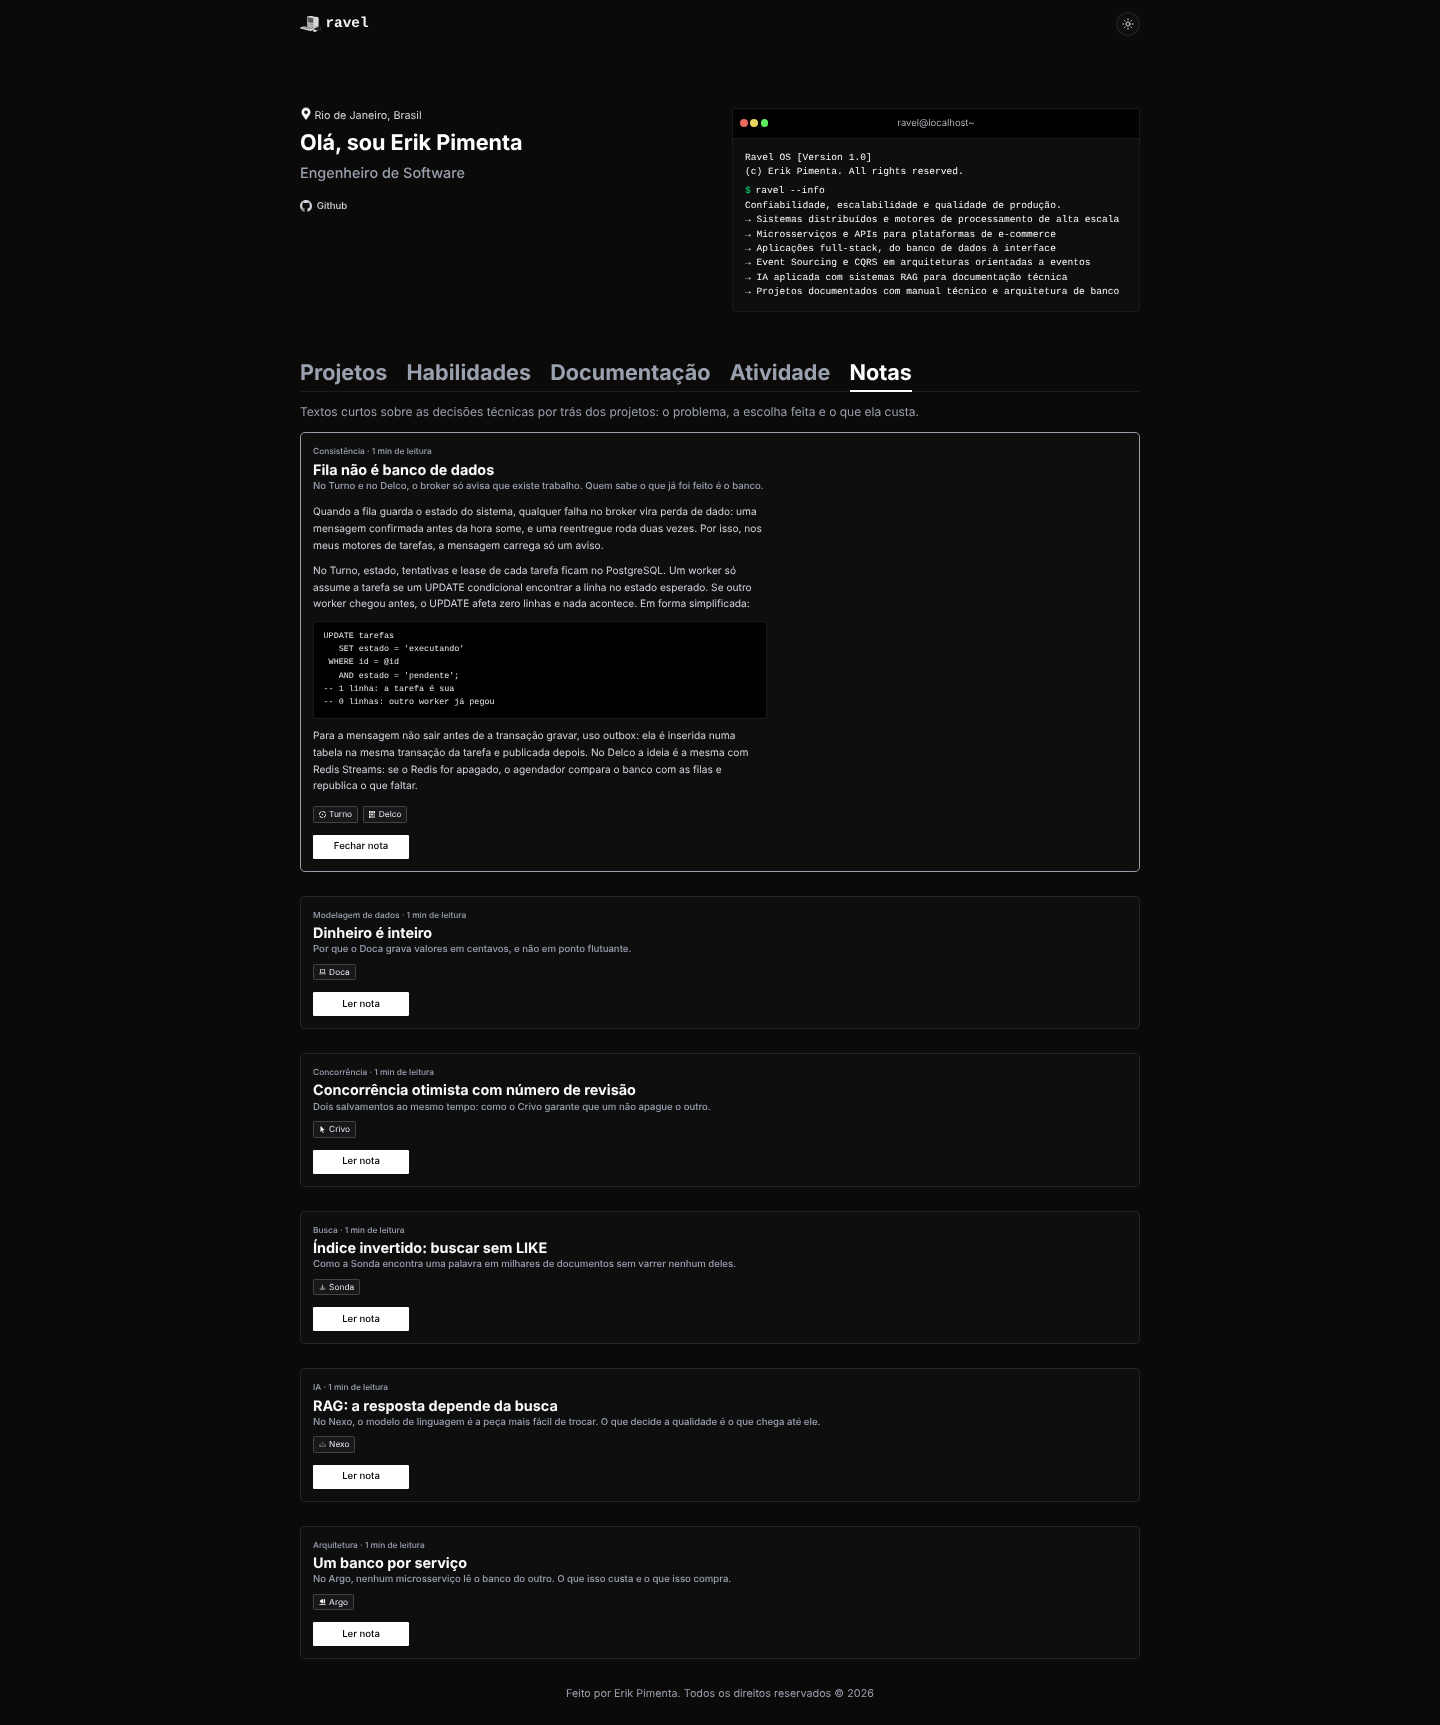
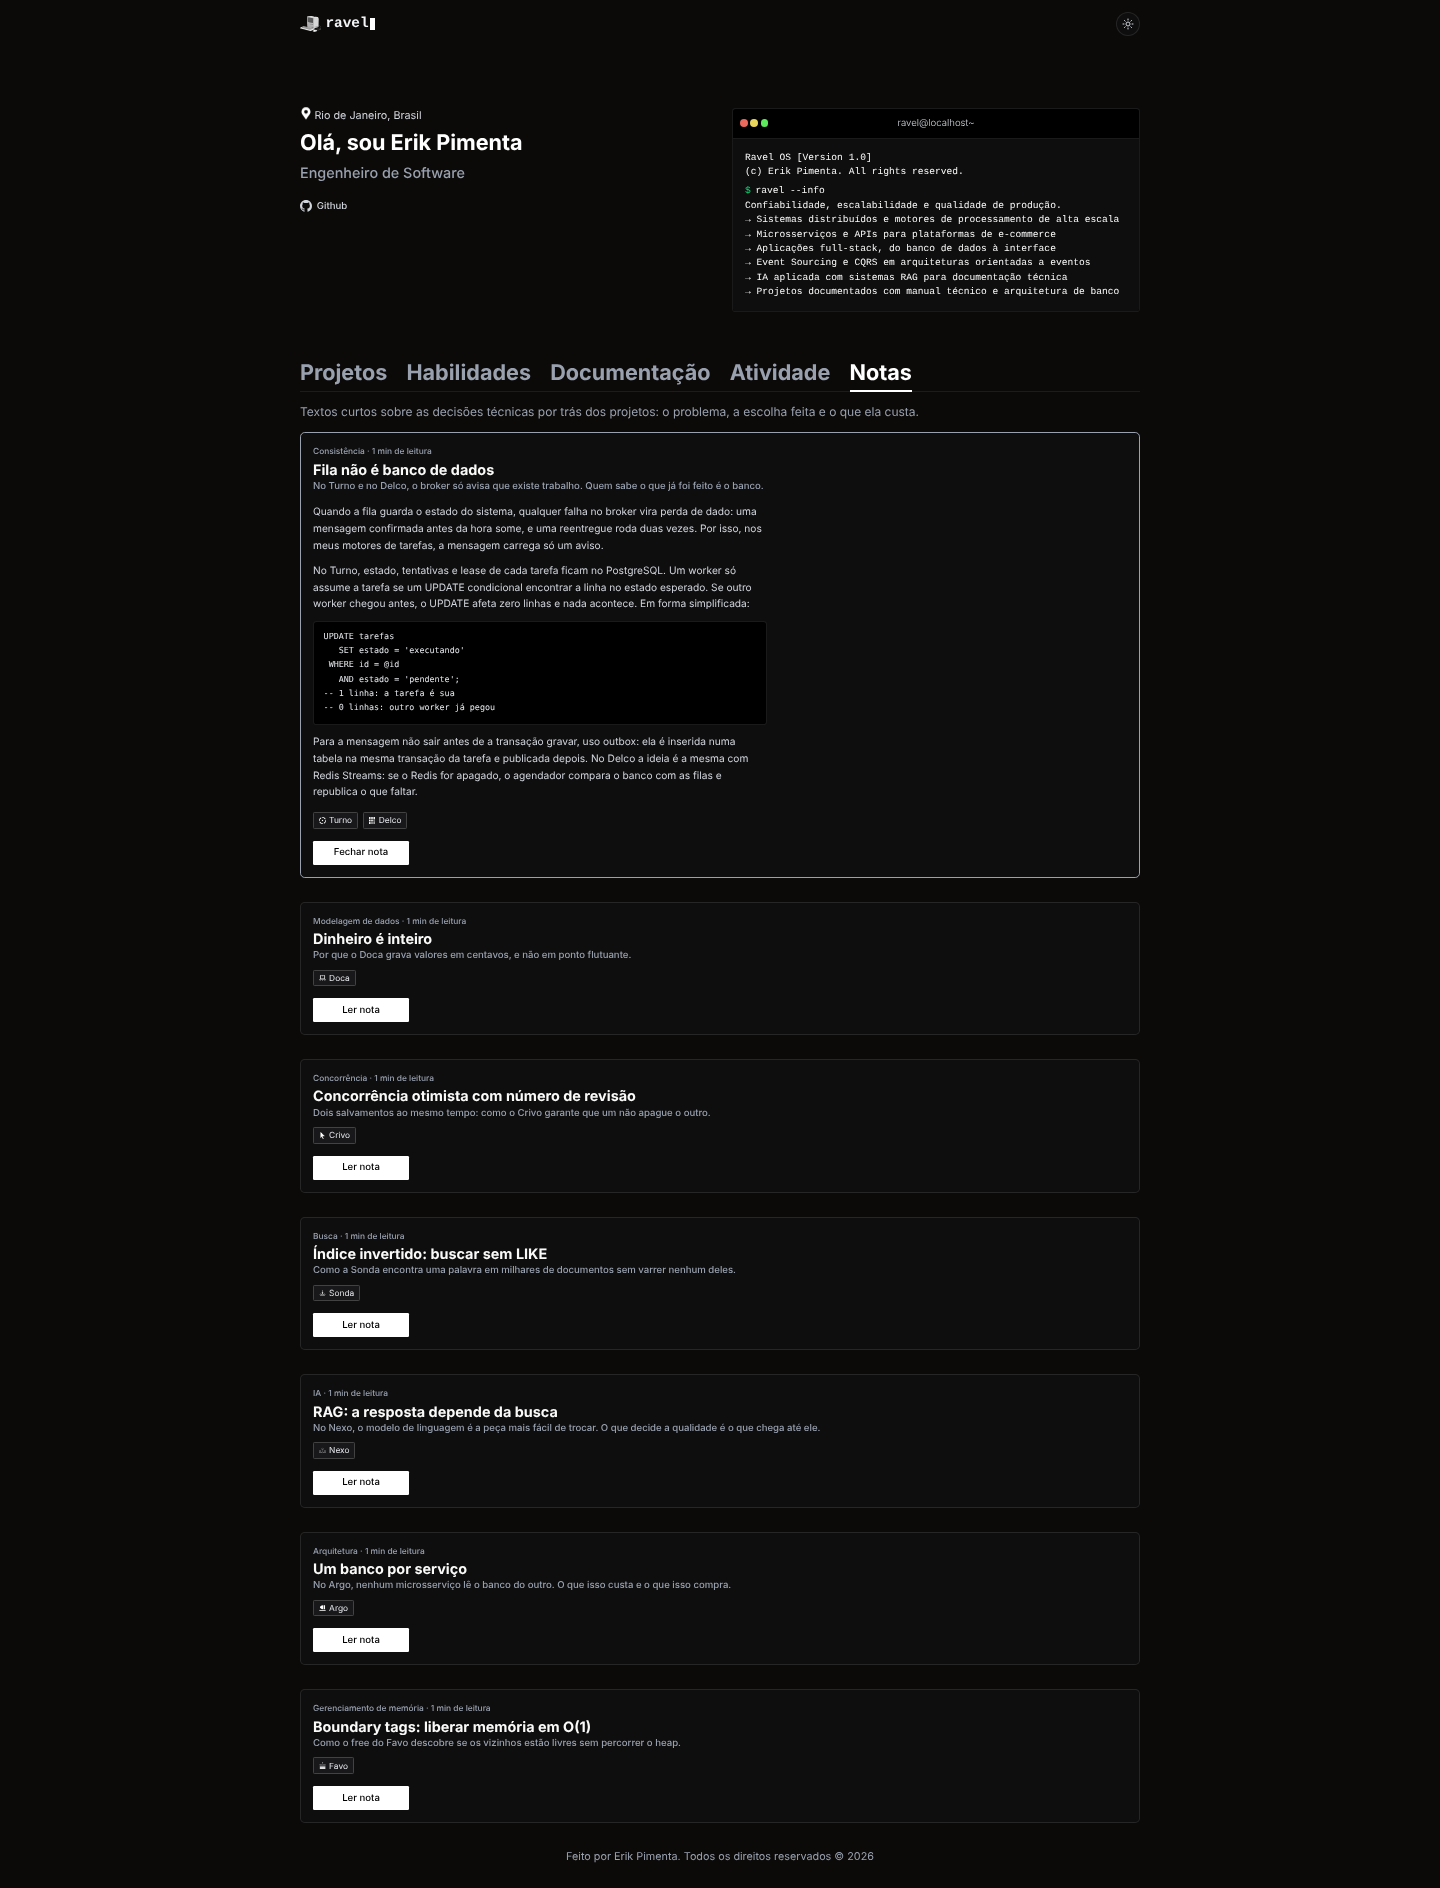
Inclui o Favo nos projetos, na documentação e nas notas

Changed region(s): [[0.2188, 0.0614, 0.75, 0.9832], [0.1875, 0.0614, 0.375, 0.1229], [0.2188, 0.0, 0.25, 0.0307]]

diff --git a/js/notas.js b/js/notas.js
@@ -72,5 +72,18 @@ const NOTAS = [
 			"O custo é que não existe JOIN entre serviços: quando um precisa de dados de outro, pede pela API ou recebe por evento. Em troca, cada serviço evolui o próprio esquema sozinho, sem quebrar os outros."
 		],
 		projetos: ["Argo"]
+	},
+	{
+		titulo: "Boundary tags: liberar memória em O(1)",
+		tema: "Gerenciamento de memória",
+		resumo: "Como o free do Favo descobre se os vizinhos estão livres sem percorrer o heap.",
+		corpo: [
+			"Depois de muitos malloc e free, o heap vira um mosaico de buracos: a soma do espaço livre é grande, mas nenhum pedaço serve para um pedido maior. É a fragmentação externa, e o remédio é fundir blocos livres vizinhos assim que um deles é liberado.",
+			"O difícil é achar os vizinhos. O da direita é fácil: basta somar o tamanho do bloco ao endereço dele. O da esquerda não dá para calcular, e percorrer o heap desde o início custaria O(n) a cada free. No Favo, todo bloco repete o tamanho no fim, num rodapé de 8 bytes (a boundary tag). Como os blocos são múltiplos de 16, os 4 bits mais baixos do tamanho ficam livres e guardam a marca de usado. Em forma simplificada:",
+			{ codigo: "[cabeçalho 16 B][ payload ......... ][rodapé 8 B]\n\ndireita  = bloco + tamanho(bloco)\nesquerda = bloco - tamanho(rodapé logo antes)\nusado    = tamanho & 1" },
+			"Assim o free lê só o rodapé do bloco anterior e o cabeçalho do seguinte, e resolve os quatro casos (nenhum vizinho livre, só a esquerda, só a direita ou os dois) em tempo constante. Para o primeiro e o último bloco não virarem exceção, cada arena começa com um rodapé falso e termina com um bloco de tamanho zero, os dois marcados como usados.",
+			"O custo são 24 bytes por bloco e um bloco mínimo de 64 bytes, para caber os ponteiros da lista e da árvore rubro-negra quando ele está livre. Em troca, o rodapé também vira verificação: se uma escrita passar do fim do payload, ele deixa de bater com o cabeçalho e o Favo acusa a corrupção quando o bloco é liberado."
+		],
+		projetos: ["Favo"]
 	}
 ];

diff --git a/js/projetos.js b/js/projetos.js
@@ -75,5 +75,12 @@ const PROJETOS = [
 		descricao: "Bento é um painel administrativo SaaS em bento grid feito com Tailwind CSS v4: modo claro/escuro salvo no localStorage, KPIs com tendência, gráficos ApexCharts, tabelas com ordenação, busca e paginação, e gavetas laterais. API em TypeScript (Fastify) com PostgreSQL, JWT, permissões por papel, alertas em tempo real (SSE) e relatórios em CSV e PDF.",
 		link: "https://github.com/ravelroot/Data-Driven-Admin-Panel",
 		tecnologias: ["Typescript", "Tailwind CSS", "Node.js", "Fastify", "PostgreSQL", "ApexCharts", "Docker"]
+	},
+	{
+		titulo: "Favo",
+		icone: "assets/projetos/favo.png",
+		descricao: "Favo é um alocador de memória escrito do zero em C11 que substitui o malloc e o free do sistema: pede memória ao kernel com sbrk e mmap (VirtualAlloc no Windows), alinha blocos a 16 bytes, aloca por First-Fit, Next-Fit ou Best-Fit em árvore rubro-negra e funde vizinhos livres. Funciona via LD_PRELOAD, com API em FastAPI e painel web do heap ao vivo.",
+		link: "https://github.com/ravelroot/Custom-Memory-Allocator",
+		tecnologias: ["C", "CMake", "LD_PRELOAD", "Python", "FastAPI", "SQLite", "Typescript", "Docker"]
 	}
 ];

diff --git a/js/documentacao.js b/js/documentacao.js
@@ -108,5 +108,15 @@ const DOCUMENTACAO = [
 		destaques: ["PostgreSQL 18 ou PGlite", "22 tabelas", "LISTEN/NOTIFY"],
 		manual: "https://github.com/ravelroot/Data-Driven-Admin-Panel/blob/main/Manual-Bento.pdf",
 		banco: "https://github.com/ravelroot/Data-Driven-Admin-Panel/blob/main/Banco-de-Dados-Bento.pdf"
+	},
+	{
+		titulo: "Favo",
+		miniatura: "assets/documentacao/favo.png",
+		miniaturaDescricao: "Diagrama de relacionamentos das sessões e operações do Favo",
+		decisao: "O heap não passa pelo banco",
+		texto: "Tudo o que o alocador gerencia vive na memória do processo. O SQLite, num arquivo só e em modo WAL, guarda apenas o histórico do painel: sessões, cada operação feita no heap, traces e benchmarks. Apagar uma sessão apaga as operações dela em cascata.",
+		destaques: ["SQLite + WAL", "6 tabelas", "Exclusão em cascata"],
+		manual: "https://github.com/ravelroot/Custom-Memory-Allocator/blob/main/Manual-Favo.pdf",
+		banco: "https://github.com/ravelroot/Custom-Memory-Allocator/blob/main/Banco-de-Dados-Favo.pdf"
 	}
 ];

diff --git a/index.html b/index.html
@@ -132,11 +132,11 @@
 		</footer>
 	</div>
 
-	<script src="js/projetos.js?v=15"></script>
+	<script src="js/projetos.js?v=16"></script>
 	<script src="js/habilidades.js?v=4"></script>
-	<script src="js/documentacao.js?v=3"></script>
+	<script src="js/documentacao.js?v=4"></script>
 	<script src="js/atividade.js?v=4"></script>
-	<script src="js/notas.js?v=1"></script>
+	<script src="js/notas.js?v=2"></script>
 	<script src="js/main.js?v=9"></script>
 </body>
 </html>

diff --git a/README.md b/README.md
@@ -20,7 +20,7 @@ HTML5 · CSS3 · JavaScript (ES6+) · API do GitHub · Responsivo · Zero depend
 ---
 
 <p align="center">
-  <img src="assets/preview-portfolio.png?v=15" alt="Prévia do portfólio">
+  <img src="assets/preview-portfolio.png?v=16" alt="Prévia do portfólio">
 </p>
 
 <p align="center"><b>Tema claro, na aba Habilidades</b></p>
@@ -44,7 +44,7 @@ HTML5 · CSS3 · JavaScript (ES6+) · API do GitHub · Responsivo · Zero depend
 <p align="center"><b>Aba Notas</b></p>
 
 <p align="center">
-  <img src="assets/preview-portfolio-notas.png?v=1" alt="Prévia da aba Notas, com uma nota aberta e o bloco de código">
+  <img src="assets/preview-portfolio-notas.png?v=2" alt="Prévia da aba Notas, com uma nota aberta e o bloco de código">
 </p>
 
 ## O que tem na página
@@ -58,7 +58,7 @@ HTML5 · CSS3 · JavaScript (ES6+) · API do GitHub · Responsivo · Zero depend
   - **Habilidades** organizadas por área (Front-end, Back-end, Bancos de Dados, IA & LLMs e Ferramentas), em cartões com etiquetas agrupadas. IA & LLMs se divide em Arquitetura RAG e Modelos e protocolos; Ferramentas, em DevOps e infraestrutura, APIs, Desenvolvimento e Produtividade.
   - **Documentação**: um cartão por projeto com a miniatura do diagrama do banco (tirada do próprio PDF, em traço branco no tema escuro e grafite no claro), a decisão de arquitetura que mais pesou, etiquetas com os números principais e botões que abrem o **Manual técnico** e a **Arquitetura do BD** em PDF no GitHub. A miniatura também abre o PDF. O Talos, que ainda não tem o PDF do banco, mostra um esquema da arquitetura hexagonal.
   - **Atividade**: dados ao vivo do GitHub, buscados só quando a aba é aberta. Mostra as contribuições dos últimos 12 meses, sequência atual e maior sequência de dias com commits, número de repositórios públicos, o **gráfico de contribuições** dos últimos 12 meses (o mesmo calendário do perfil, em tons neutros que acompanham o tema). A janela anda junto com o tempo e atravessa a virada de ano: por isso o primeiro mês e cada janeiro mostram o ano, e a nota abaixo do gráfico diz o período exato. A partir de **1º de janeiro de 2027**, o cartão ganha sozinho os botões **12 meses · 2027 · 2026** para ver cada ano inteiro (um botão novo aparece a cada virada de ano); no ano em andamento, os dias que ainda não chegaram aparecem vazados, as **linguagens mais usadas** pela soma do código de todos os repositórios e os **repositórios que receberam commits por último**, com o ícone do projeto quando ele está no portfólio. Passar o mouse sobre um dia ou uma linguagem mostra os detalhes.
-  - **Notas**: textos curtos sobre as decisões técnicas por trás dos projetos (o problema, a escolha feita e o que ela custa), em lista de uma coluna. Cada nota mostra o tema, o tempo de leitura (calculado pelo número de palavras), o título, um resumo e etiquetas dos projetos citados, com ícone e link para o repositório. O botão **Ler nota** abre o texto completo dentro do próprio cartão, com blocos de código quando ajudam a explicar. As notas atuais: *Fila não é banco de dados* (Turno e Delco), *Dinheiro é inteiro* (Doca), *Concorrência otimista com número de revisão* (Crivo), *Índice invertido: buscar sem LIKE* (Sonda), *RAG: a resposta depende da busca* (Nexo) e *Um banco por serviço* (Argo).
+  - **Notas**: textos curtos sobre as decisões técnicas por trás dos projetos (o problema, a escolha feita e o que ela custa), em lista de uma coluna. Cada nota mostra o tema, o tempo de leitura (calculado pelo número de palavras), o título, um resumo e etiquetas dos projetos citados, com ícone e link para o repositório. O botão **Ler nota** abre o texto completo dentro do próprio cartão, com blocos de código quando ajudam a explicar. As notas atuais: *Fila não é banco de dados* (Turno e Delco), *Dinheiro é inteiro* (Doca), *Concorrência otimista com número de revisão* (Crivo), *Índice invertido: buscar sem LIKE* (Sonda), *RAG: a resposta depende da busca* (Nexo), *Um banco por serviço* (Argo) e *Boundary tags: liberar memória em O(1)* (Favo).
 - **Escala fixa de 75% no computador**: a página já abre do tamanho que teria com o zoom do Chrome em 75%, sem o visitante precisar ajustar nada. No celular (até 768 px de largura) ela fica em 100%, para o texto continuar legível.
 - **Layout responsivo**: duas colunas no computador, uma no celular, sem rolagem lateral.
 - **Acessível a quem prefere menos movimento**: com `prefers-reduced-motion`, as animações são desligadas.
@@ -91,6 +91,7 @@ HTML5 · CSS3 · JavaScript (ES6+) · API do GitHub · Responsivo · Zero depend
 | [**Crivo**](https://github.com/ravelroot/Pixel-Art-Matrix-Editor) | Crivo é um editor de pixel art no navegador em JavaScript puro: matriz RGBA via ImageData, balde por varredura, Bresenham e elipse de ponto médio, camadas, animação, simetria e histórico ilimitado com diffs e RLE. Paletas Game Boy, NES, Pico-8 e CGA, tons em OKLCH, PNG, sprite sheet e matrizes JSON/CSV/JS/Python. API Django e CLI Java. | JavaScript · Canvas 2D · Python 3.13 · Django 6.1 · PostgreSQL 17 · Java 21 · Docker |
 | [**Lume**](https://github.com/ravelroot/Document-Library-Desktop) | Lume é uma biblioteca de PDFs e DOCX em Java 21 + Spring Boot 4, com capas automáticas (PDFBox), descrição por IA, leitor próprio, estantes, coleções e busca em texto completo (SQLite FTS5). Um único Lume.exe portátil, com o Java embutido. | Java 21 · Spring Boot 4 · SQLite + FTS5 · Apache PDFBox · pdf.js · Playwright |
 | [**Bento**](https://github.com/ravelroot/Data-Driven-Admin-Panel) | Bento é um painel administrativo SaaS em bento grid feito com Tailwind CSS v4: modo claro/escuro salvo no localStorage, KPIs com tendência, gráficos ApexCharts, tabelas com ordenação, busca e paginação, e gavetas laterais. API em TypeScript (Fastify) com PostgreSQL, JWT, permissões por papel, alertas em tempo real (SSE) e relatórios em CSV e PDF. | TypeScript · Tailwind CSS 4 · Node.js 22 · Fastify 5 · PostgreSQL 18 ou PGlite · ApexCharts · Docker |
+| [**Favo**](https://github.com/ravelroot/Custom-Memory-Allocator) | Favo é um alocador de memória escrito do zero em C11 que substitui o malloc e o free do sistema: pede memória ao kernel com sbrk e mmap (VirtualAlloc no Windows), alinha blocos a 16 bytes, aloca por First-Fit, Next-Fit ou Best-Fit em árvore rubro-negra e funde vizinhos livres. Funciona via LD_PRELOAD, com API em FastAPI e painel web do heap ao vivo. | C11 · sbrk e mmap · CMake · LD_PRELOAD · Python 3.13 · FastAPI · WebSocket · SQLite · TypeScript · Vite · Docker |
 
 ## Como rodar
 
